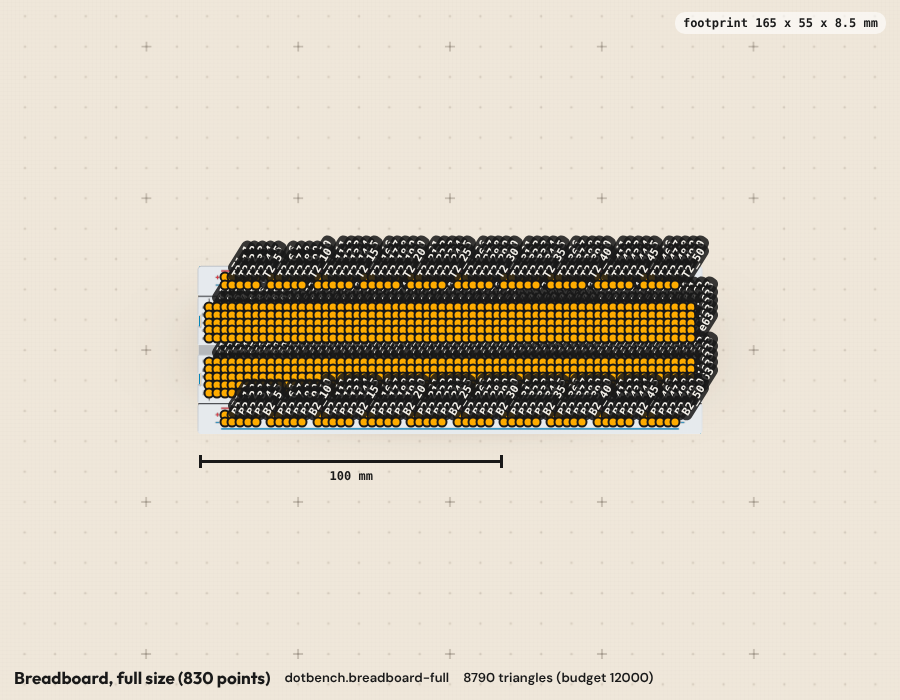
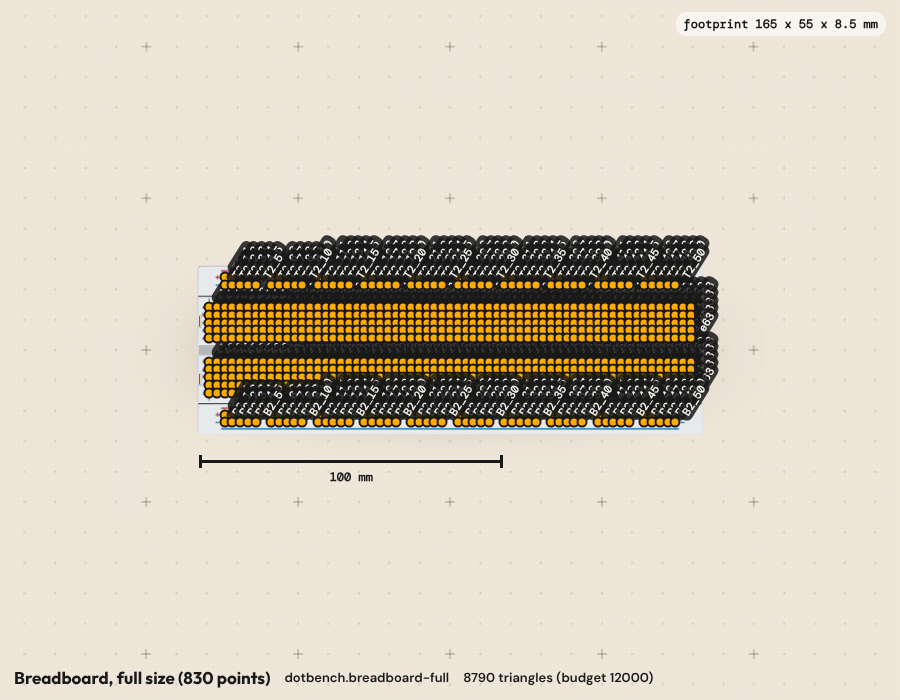
Bench3D: breadboard dovetail tabs built inside the manifest's overhang allowance, switched off
tabs() draws the tabs of the right and front edges within body.overhang_mm
(1.0 mm of the 1.2 mm allowed). DRAW_TABS stays false: the kit's contract
check does not read the allowance and fails a model that leaves its footprint
("sticks out of the footprint along X: -41.25 .. 42.25 (w 82.5)"). Checked
switched on in a scratch render; flip the constant once inspectModel honours
the allowance.

diff --git a/web/src/bench3d/models/breadboards/breadboard.ts b/web/src/bench3d/models/breadboards/breadboard.ts
@@ -16,10 +16,11 @@
  * The body is the usual three mouldings (two rail strips and the terminal block with its centre channel) joined
  * along two seams, foam tape underneath. Sizes after the MB-102 family: holes 1.1 mm square under a 1.66 mm lead-in,
  * channel 3 mm wide, body 8.5 mm high.
- * Dovetails: the manifest's body is the moulding WITHOUT its tabs, and a model may not leave its footprint, so the
- * mouldings fill the footprint, the slots are cut in the left and back edges, and the tabs of the right and front
- * edges are not built (they would stand 1.1 mm outside; on boards placed side by side they are inside the
- * neighbour's slots anyway).
+ * Dovetails: the manifest's body is the moulding WITHOUT its tabs, so the mouldings fill the footprint and the slots
+ * are cut in the left and back edges. The tabs of the right and front edges stand outside the footprint, inside the
+ * allowance the manifest declares for them (`body.overhang_mm`, 1.2 mm a side). They are built by `tabs()` and
+ * switched off by DRAW_TABS for one reason: the kit's contract check (`inspectModel`) does not know the allowance
+ * yet and fails a model that leaves its footprint by more than 0.25 mm. Set DRAW_TABS when it does.
  * Rails: in each pair the row further from the viewer is + (red line), the nearer one - (blue), the lines on the
  * outside of the pair, as in the parts' picture.svg.
  */
@@ -36,7 +37,8 @@ const BODY_WHITE = '#d4dae0';
 /** What the builder reads of parts/breadboard-<size>/manifest.json. */
 export interface BoardManifest {
   id: string;
-  body: ManifestBody;
+  /** `overhang_mm`: how far a model may draw outside the body on each side (the dovetail tabs). */
+  body: ManifestBody & { overhang_mm?: { left?: number; right?: number; back?: number; front?: number } };
   pins: ManifestPin[];
   groups: { pins: string[] }[];
 }
@@ -44,6 +46,9 @@ export interface BoardManifest {
 // ---- the moulding (design values; everything about the holes' places comes from the manifest)
 const BODY: Finish = ['gloss', BODY_WHITE]; // ABS has a sheen; a cool white, so the board stands off the warm table
 const SLOT = 1.1; // how deep a dovetail slot is cut
+const TAB = 1.0; // how far a dovetail tab stands out: it fits the slot of the next board
+/** Build the tabs outside the footprint (see the header: off until the contract check honours `body.overhang_mm`). */
+const DRAW_TABS = false;
 const RAIL_LINE = 2.1; // from a rail row to its coloured line
 const FOAM = 0.9; // the adhesive foam and its backing paper
 const BEVEL = 0.32;
@@ -65,7 +70,7 @@ interface Trough {
   v: number;
 }
 interface Layout {
-  body: ManifestBody;
+  body: BoardManifest['body'];
   pitch: number;
   /** Half extents of the mouldings. */
   X: number;
@@ -273,7 +278,20 @@ function buildBody(L: Layout, ctx: BuildCtx): Shape {
   // the seams: a rail strip is a moulding of its own, a dark line runs between it and the terminal block
   for (const z of [seamTop, seamBot]) s.box('matte', '#1e2024', 0, z, 2 * X - 0.5, SEAM + 0.2, FOAM, top - 0.75, 0.05, 0, { ao: 0.7 });
 
+  if (DRAW_TABS) tabs(s, L);
   return s;
+}
+
+/**
+ * The dovetail tabs: on the right edge of each half of the terminal block and along the front rail strip, opposite
+ * the slots, no further out than the manifest allows on that side. Lower than the top face, as moulded.
+ */
+function tabs(s: Shape, L: Layout): void {
+  const { X, Z } = L;
+  const top = L.body.h_mm - 1.5;
+  const right = Math.min(TAB, L.body.overhang_mm?.right ?? 0), front = Math.min(TAB, L.body.overhang_mm?.front ?? 0);
+  if (right > 0.3) for (const z of L.slotsZ) s.prism(...BODY, dovetail(z, 0).map(([a, k]) => [X - 0.3 + k * (right + 0.3), a] as Pt), FOAM, top, 0.2, { ao: 0.6 });
+  if (front > 0.3) for (const x of L.slotsX) s.prism(...BODY, dovetail(x, 0).map(([a, k]) => [a, Z - 0.3 + k * (front + 0.3)] as Pt), FOAM, top, 0.2, { ao: 0.6 });
 }
 
 // ---------------------------------------------------------------------------------------------------- print
